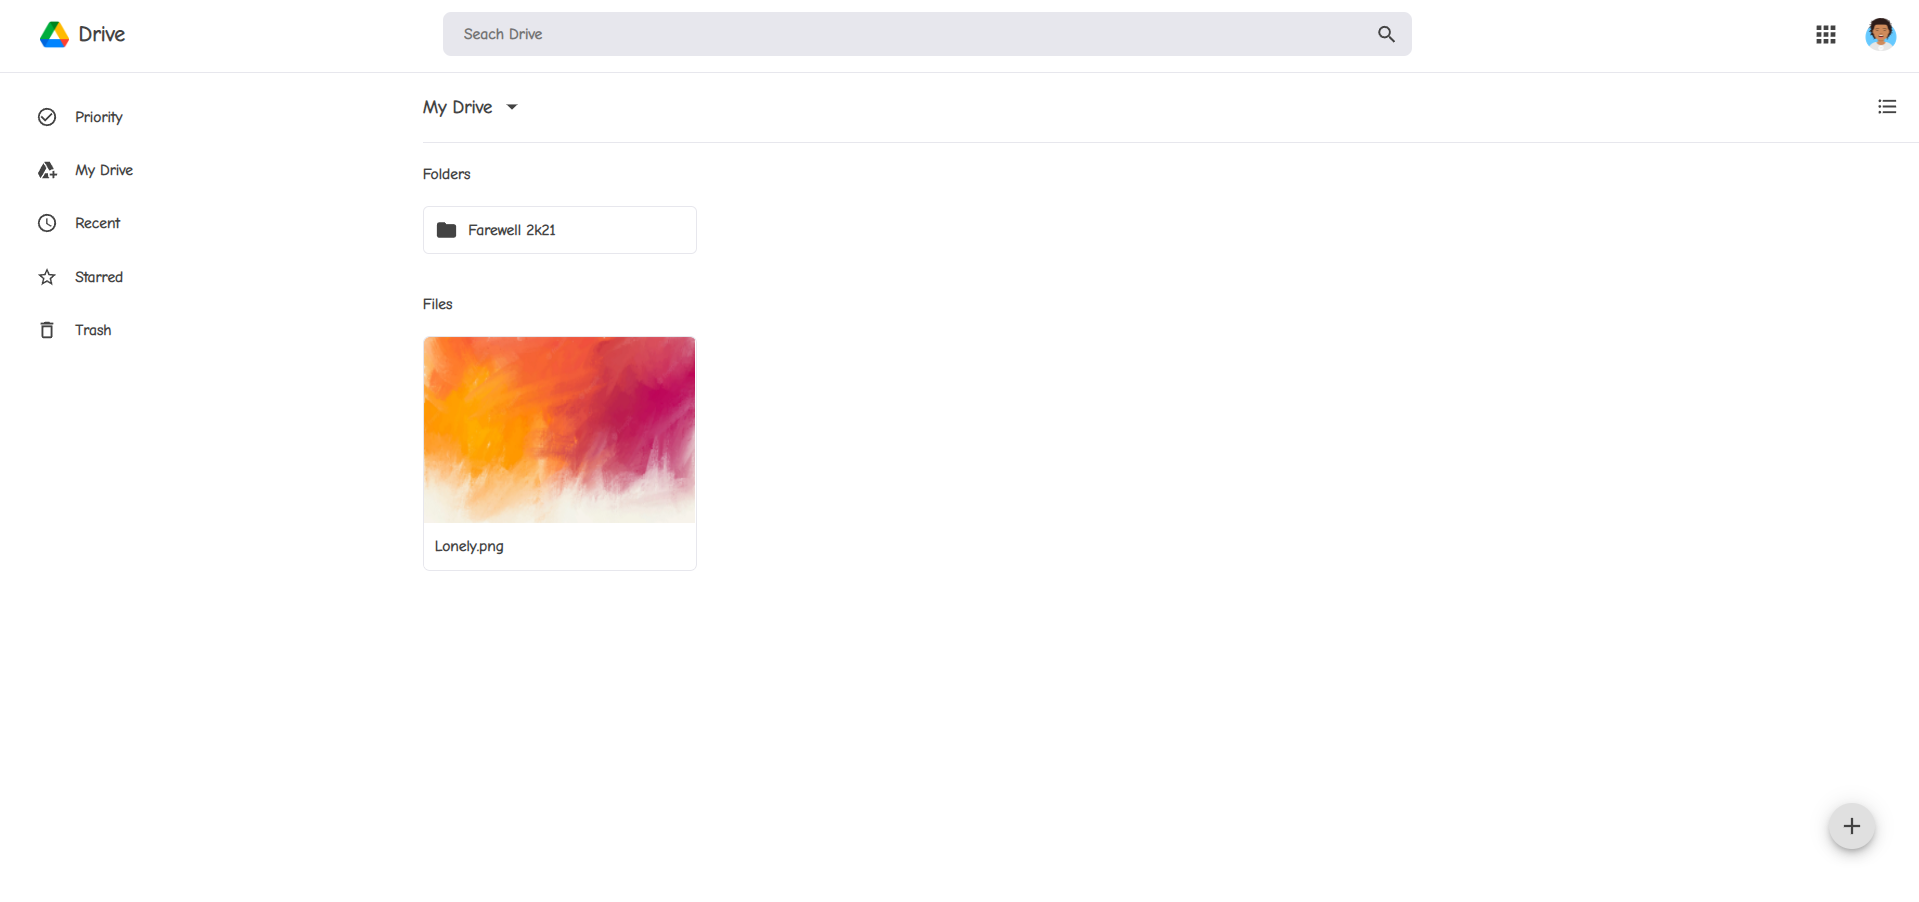
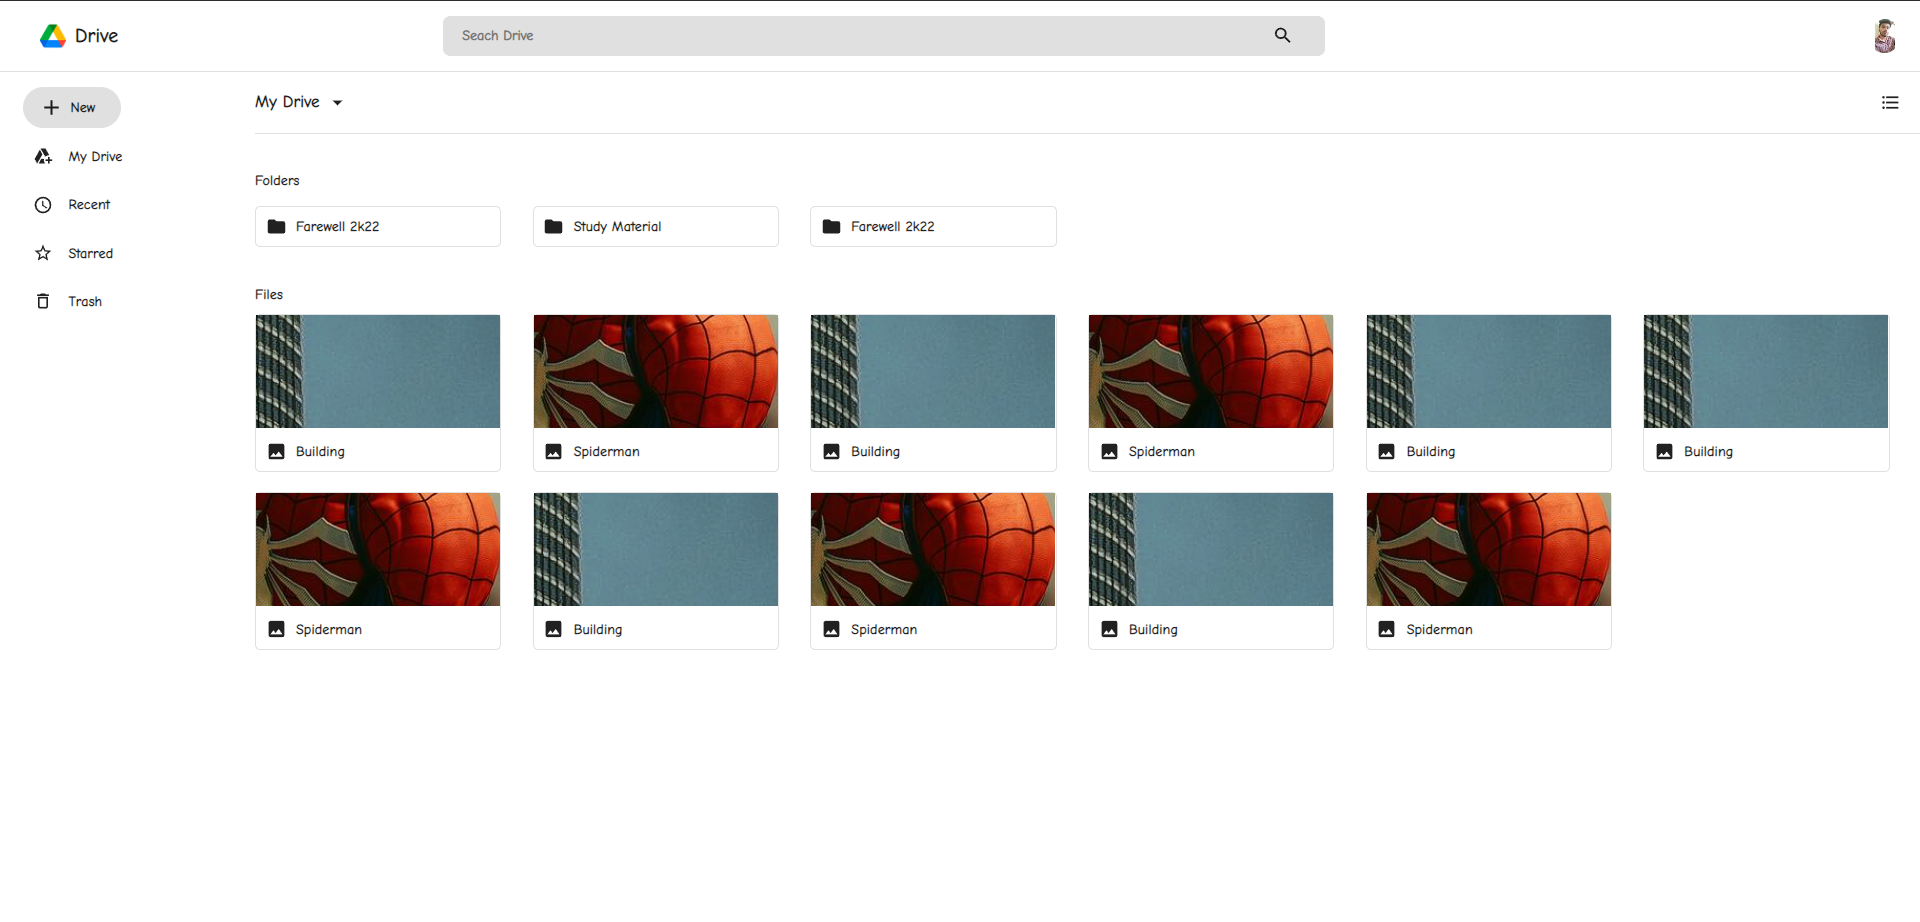
client ui commit

diff --git a/client/src/components/Navbar.js b/client/src/components/Navbar.js
@@ -5,7 +5,9 @@ import Avatar from '@mui/material/Avatar';
 import SearchIcon from '@mui/icons-material/Search';
 import Menu from '@mui/material/Menu';
 import MenuItem from '@mui/material/MenuItem';
-
+import { Box } from '@mui/material';
+import LogoutIcon from '@mui/icons-material/Logout';
+import Brightness4Icon from '@mui/icons-material/Brightness4';
 
 export const Navbar = (props) => {
 
@@ -19,7 +21,7 @@ export const Navbar = (props) => {
     };
 
     return (
-        <div className='navbar' style={{ width: '100%', borderBottom: '1.5px solid #E7E7ED', display: "flex", flexDirection: 'row', alignItems: 'center', height: '72' }}>
+        <Box className='navbar' sx={{ borderBottom: 1 ,borderColor: 'divider'}} style={{ width: '100%',display: "flex", flexDirection: 'row', alignItems: 'center', height: '72' }}>
             <div className="left" style={{ width: '24%', }}>
                 <div className="logo" style={{ display: 'flex', flexDirection: 'row', alignItems: 'center', marginTop: '19px', marginBottom: '19px', cursor: 'pointer' }}>
                     <img style={{ width: '25px', marginLeft: '9%', marginRight: '8.45px' }} src={logo} alt="" />
@@ -27,13 +29,13 @@ export const Navbar = (props) => {
                 </div>
             </div>
             <div className="right" style={{ display: 'flex', flexDirection: 'row', alignItems: 'center', width: '80%' }}>
-                <div className="searchbar" style={{ width: '838px', backgroundColor: '#E7E7ED', display: 'flex', flexDirection: 'row', alignItems: 'center', height: '38px', borderRadius: '7px' }}>
-                    <input placeholder='Seach Drive' type="text" style={{ backgroundColor: 'transparent', border: 'none', outline: 'none', width: '93.8%', height: 'inherit', paddingLeft: '18px' }} />
+                <Box sx={{bgcolor:'divider'}} className="searchbar" style={{ width: '838px',  display: 'flex', flexDirection: 'row', alignItems: 'center', height: '38px', borderRadius: '7px',color:'inherit' }}>
+                    <input placeholder='Seach Drive' type="text" style={{ backgroundColor: 'transparent', border: 'none', outline: 'none', width: '93.8%', height: 'inherit', paddingLeft: '18px',color:'inherit' }} />
                     <SearchIcon style={{ width: '24px', height: '20px', cursor: 'pointer' }}></SearchIcon>
-                </div>
+                </Box>
                 <div className="user_settings" style={{ marginLeft: 'auto', display: 'flex', flexDirection: 'row', alignItems: 'center', marginRight: '11px' }}>
                     {/* <AppsIcon color="primary" style={{ width: '24px', height: '24px', marginLeft: '12px', marginRight: "9px", cursor: 'pointer' }}></AppsIcon> */}
-                    <Avatar src={props.photo} onClick={handleClick} style={{ width: '29px', height: '29px', marginLeft: '12px', marginRight: "9px", cursor: 'pointer' }} />
+                    <Avatar src={props.photo} onClick={handleClick} style={{ width: '29px', height: '32px', marginLeft: '12px', marginRight: "9px", cursor: 'pointer' }} />
                     <Menu
                         disableAutoFocusItem={false}
                         anchorEl={anchorEl}
@@ -70,10 +72,11 @@ export const Navbar = (props) => {
                         transformOrigin={{ horizontal: 'right', vertical: 'top' }}
                         anchorOrigin={{ horizontal: 'right', vertical: 'bottom' }}
                     >
-                        <MenuItem onClick={() => { props.setAuth(null); localStorage.removeItem('authuser') }}>Logout</MenuItem>
+                        <MenuItem sx={{fontFamily:'Comic Neue',fontSize:'13px',fontWeight:'bold'}} onClick={() => { props.setAuth(null); localStorage.removeItem('authuser') }}><LogoutIcon sx={{fontSize:'16px',marginRight:'6px'}}/>Logout</MenuItem>
+                        <MenuItem onClick={()=>props.handleDark()} sx={{fontFamily:'Comic Neue',fontSize:'13px',fontWeight:'bold'}} ><Brightness4Icon sx={{fontSize:'16px',marginRight:'6px'}}/>Toggle Dark</MenuItem>
                     </Menu>
                 </div>
             </div>
-        </div>
+        </Box>
     )
 }

diff --git a/client/src/components/Leftbar.js b/client/src/components/Leftbar.js
@@ -10,20 +10,20 @@ import AddIcon from '@mui/icons-material/Add';
 export const Leftbar = () => {
     return (
         <div className='leftbar' style={{width:'13%'}}>
-            <button style={{width:'45%',display:'flex',flexDirection:'row',justifyContent:'center',alignItems:'center',backgroundColor:'#F0F5FF',outline:'none',border:'none',height:'39px',borderRadius:'32px',marginLeft:'22px',cursor:'pointer',marginBottom:'7px',marginTop:'15px'}}><AddIcon style={{marginRight:'6px',marginLeft:'-9px'}}/>New</button>
-            <Link to="/" className="tags" style={{marginLeft:'22px',display:'flex',flexDirection:'row',alignItems:'center',marginBottom:'7px',marginTop:'7px',textDecoration:'none',height:'39px',paddingLeft:'9px',borderRadius:'7px 25px 25px 7px'}}>
+            <button style={{width:'45%',display:'flex',flexDirection:'row',justifyContent:'center',alignItems:'center',backgroundColor:'rgba(0, 0, 0, 0.12)',outline:'none',border:'none',height:'39px',borderRadius:'32px',marginLeft:'22px',cursor:'pointer',marginBottom:'7px',marginTop:'15px',color:'inherit'}}><AddIcon style={{marginRight:'6px',marginLeft:'-9px'}}/><h4>New</h4></button>
+            <Link to="/" className="tags" style={{marginLeft:'22px',display:'flex',flexDirection:'row',alignItems:'center',marginBottom:'7px',marginTop:'7px',textDecoration:'none',height:'39px',paddingLeft:'9px',borderRadius:'7px 25px 25px 7px',textDecorationColor:'none',color:'inherit'}}>
                 <AddToDriveOutlinedIcon style={{width:'19px',height:'19px',marginRight:'15px'}}/>
                 <h5>My Drive</h5>
             </Link>
-            <Link to="/recent" className="tags" style={{marginLeft:'22px',display:'flex',flexDirection:'row',alignItems:'center',marginBottom:'7px',marginTop:'7px',textDecoration:'none',height:'39px',paddingLeft:'9px',borderRadius:'7px 25px 25px 7px'}}>
+            <Link to="/recent" className="tags" style={{marginLeft:'22px',display:'flex',flexDirection:'row',alignItems:'center',marginBottom:'7px',marginTop:'7px',textDecoration:'none',height:'39px',paddingLeft:'9px',borderRadius:'7px 25px 25px 7px',textDecorationColor:'none',color:'inherit'}}>
                 <AccessTimeOutlinedIcon style={{width:'19px',height:'19px',marginRight:'15px'}}/>
                 <h5>Recent</h5>
             </Link>
-            <Link to="/starred" className="tags" style={{marginLeft:'22px',display:'flex',flexDirection:'row',alignItems:'center',marginBottom:'7px',marginTop:'7px',textDecoration:'none',height:'39px',paddingLeft:'9px',borderRadius:'7px 25px 25px 7px'}}>
+            <Link to="/starred" className="tags" style={{marginLeft:'22px',display:'flex',flexDirection:'row',alignItems:'center',marginBottom:'7px',marginTop:'7px',textDecoration:'none',height:'39px',paddingLeft:'9px',borderRadius:'7px 25px 25px 7px',textDecorationColor:'none',color:'inherit'}}>
                 <StarBorderPurple500OutlinedIcon style={{width:'19px',height:'19px',marginRight:'15px'}}/>
                 <h5>Starred</h5>
             </Link>
-            <Link to="/trash" className="tags" style={{marginLeft:'22px',display:'flex',flexDirection:'row',alignItems:'center',marginBottom:'7px',marginTop:'7px',textDecoration:'none',height:'39px',paddingLeft:'9px',borderRadius:'7px 25px 25px 7px'}}>
+            <Link to="/trash" className="tags" style={{marginLeft:'22px',display:'flex',flexDirection:'row',alignItems:'center',marginBottom:'7px',marginTop:'7px',textDecoration:'none',height:'39px',paddingLeft:'9px',borderRadius:'7px 25px 25px 7px',textDecorationColor:'none',color:'inherit'}}>
                 <DeleteOutlinedIcon style={{width:'19px',height:'19px',marginRight:'15px'}}/>
                 <h5>Trash</h5>
             </Link>

diff --git a/client/src/pages/Home.js b/client/src/pages/Home.js
@@ -1,6 +1,7 @@
 import React from 'react'
+import { Cardc } from '../components/Cardc'
 // import { Card } from '../components/Card'
-// import { Folder } from '../components/Folder'
+import { Folderc } from '../components/Folderc'
 import { Selection } from '../components/Selection'
 
 export const Home = (props) => {
@@ -10,13 +11,30 @@ export const Home = (props) => {
     <div className="home" style={{ width: '100%', marginLeft: '2vw' }}>
       <Selection />
       <div className="files">
-        <h5 style={{ marginBottom: '5px', marginTop: '35px' }}>Files</h5>
-        <div style={{ display: 'flex', flexDirection: 'row', marginBottom: '15px', marginTop: '0px', flexWrap: 'wrap' }}>
-          
-             {/* return( <Card  />) */}
-
+        <h5 style={{ marginBottom: '5px', marginTop: '35px' }}>Folders</h5>
+        <div style={{ display: 'grid', gridTemplateColumns:'repeat( 12, minmax(250px, 1fr) );', marginBottom: '15px', marginTop: '9px' }}>
+          <Folderc name="Farewell 2k22"/>
+          <Folderc name="Study Material"/>
+          <Folderc name="Farewell 2k22"/>
         </div>
       </div>
+      <div className="files">
+        <h5 style={{ marginBottom: '5px', marginTop: '35px' }}>Files</h5>
+        <div style={{ display: 'grid', gridTemplateColumns:'repeat( 6, minmax(250px, 1fr) );', marginBottom: '15px', marginTop: '-15px' }}>
+          <Cardc name="Building" img="https://images.hdqwalls.com/wallpapers/spiderman-in-dubai-si.jpg"/>
+          <Cardc name="Spiderman" img="https://images.hdqwalls.com/download/spiderman-ps4-new-6c-1400x900.jpg"/>
+          <Cardc name="Building" img="https://images.hdqwalls.com/wallpapers/spiderman-in-dubai-si.jpg"/>
+          <Cardc name="Spiderman" img="https://images.hdqwalls.com/download/spiderman-ps4-new-6c-1400x900.jpg"/>
+          <Cardc name="Building" img="https://images.hdqwalls.com/wallpapers/spiderman-in-dubai-si.jpg"/>
+          <Cardc name="Building" img="https://images.hdqwalls.com/wallpapers/spiderman-in-dubai-si.jpg"/>
+          <Cardc name="Spiderman" img="https://images.hdqwalls.com/download/spiderman-ps4-new-6c-1400x900.jpg"/>
+          <Cardc name="Building" img="https://images.hdqwalls.com/wallpapers/spiderman-in-dubai-si.jpg"/>
+          <Cardc name="Spiderman" img="https://images.hdqwalls.com/download/spiderman-ps4-new-6c-1400x900.jpg"/>
+          <Cardc name="Building" img="https://images.hdqwalls.com/wallpapers/spiderman-in-dubai-si.jpg"/>
+          <Cardc name="Spiderman" img="https://images.hdqwalls.com/download/spiderman-ps4-new-6c-1400x900.jpg"/>
+        </div>
+      </div>
+      
     </div>
   )
 }

diff --git a/client/src/App.js b/client/src/App.js
@@ -2,43 +2,58 @@ import { Home } from "./pages/Home";
 import { Leftbar } from "./components/Leftbar";
 import { Navbar } from "./components/Navbar";
 import { useEffect, useState } from "react";
-import { Login } from "./components/Login";
+import { Login } from "./pages/Login";
 import {
   BrowserRouter,
   Routes,
   Route,
 } from "react-router-dom";
-
+import { ThemeProvider, createTheme } from '@mui/material/styles';
+import CssBaseline from '@mui/material/CssBaseline';
 
 function App() {
+  const [dark, setDark] = useState(false)
+  const darkTheme = createTheme({
+    palette: {
+      mode: dark ? 'dark' : 'light',
+    },
+  });
+
   const [auth, setAuth] = useState(null)
   useEffect(() => {
     if (localStorage.getItem('authuser') !== null || localStorage.getItem('authuser') !== undefined) {
       setAuth(JSON.parse(localStorage.getItem('authuser')))
     }
+    if (!localStorage.getItem('dark')) return
+    localStorage.getItem('dark') === 'true' ? setDark(true) : setDark(false)
   }, [])
+
+  function handleDark() {
+    setDark(prevState => {
+      return !prevState
+    })
+    localStorage.setItem('dark', `${!dark}`)
+  }
 
   return (
     <BrowserRouter>
-      <Routes>
-        <Route path="/" element={<div className="App">
-          {
-            (auth) ?
-              (<><Navbar photo={auth.photoURL} setAuth={setAuth} />
-                <div className="app" style={{ display: 'flex', flexDirection: 'row' }}>
-                  <Leftbar />
-                  <Home auth={auth} />
-                </div></>) : <Login setAuth={setAuth} />
-          }
-        </div>} />
-        <Route path="/*" element={<>{(auth) ? <><Navbar photo={auth.photoURL} setAuth={setAuth} />
-          <div className="app" style={{ display: 'flex', flexDirection: 'row' }}>
-            <Leftbar />
-          </div></> : <Login setAuth={setAuth} />}</>} />
-
-        
-      </Routes>
-
+      <ThemeProvider theme={darkTheme}>
+        <CssBaseline>
+          <Routes>
+            <Route path="/*" element={<div className="App">
+              {
+                (auth) ?
+                  (<><Navbar photo={auth.photoURL} setAuth={setAuth} handleDark={handleDark} />
+                    <div className="app" style={{ display: 'flex', flexDirection: 'row' }}>
+                      <Leftbar />
+                      <Home auth={auth} />
+                    </div></>) : <Login setAuth={setAuth} />
+              }
+            </div>
+            } />
+          </Routes>
+        </CssBaseline>
+      </ThemeProvider>
     </BrowserRouter>
   );
 }

diff --git a/client/src/pages/Login.js b/client/src/pages/Login.js
@@ -1,9 +1,10 @@
-import { Button } from '@mui/material'
+import { Box, Button } from '@mui/material'
 import React from 'react'
-import { UnloggedNav } from './UnloggedNav'
+import { UnloggedNav } from '../components/UnloggedNav'
 import { getAuth, signInWithPopup } from "firebase/auth";
 import { provider } from '../config'
 import toast, { Toaster } from 'react-hot-toast';
+import drive from '../assets/drive.svg'
 
 export const Login = (props) => {
     const auth = getAuth();
@@ -20,7 +21,7 @@ export const Login = (props) => {
         <div className='login'>
             <Toaster />
             <UnloggedNav />
-            <div className="page" style={{ display: 'flex', flexDirection: 'row' }}>
+            <Box className="page" style={{ display: 'flex', flexDirection: 'row' }}>
                 <div className="left" style={{ width: '50%', display: 'flex', flexDirection: 'column', alignItems: 'center', justifyContent: 'center' }}>
                     <div className="somebigtext" style={{ width: '60%' }}>
                         <h1 style={{ marginBottom: '16px' }}> Easy and secure access to all of your content</h1>
@@ -29,9 +30,9 @@ export const Login = (props) => {
                     </div>
                 </div>
                 <div className="right" style={{ width: '50%' }}>
-                    <img style={{ width: '85%', marginTop: "6vh" }} src="https://lh3.googleusercontent.com/vq6ZjR72IcEKRh3QtkVrf2BXsZIOgljo8yGevO2rSVtl3mSxSDKvWfFAGxMxCYbPLGiovGk-gk0kA2csKSPHQKog-zTmNjRtmh6VkA=s0" alt="" />
+                    <img style={{ width: '85%', }} src={drive} alt="" />
                 </div>
-            </div>
+            </Box>
         </div>
     )
 }

diff --git a/client/src/components/Selection.js b/client/src/components/Selection.js
@@ -1,8 +1,9 @@
 import React from 'react'
 import ArrowDropDownIcon from '@mui/icons-material/ArrowDropDown';
 import FormatListBulletedIcon from '@mui/icons-material/FormatListBulleted';
+import { Box } from '@mui/material';
 export const Selection = () => {
   return (
-    <div className='selection' style={{backgroundColor:'white',width:"100%",height:'59px',display:'flex',flexDirection:'row',alignItems:'center',borderBottom:'1.5px solid #E7E7ED',marginBottom:'19px'}}>My Drive <ArrowDropDownIcon style={{width:'22px',height:'22px',marginLeft:'6px'}} /> <FormatListBulletedIcon style={{marginLeft:'auto',marginRight:'19px',width:'20px',height:'22px',cursor:'pointer'}} /></div>
+    <Box className='selection' sx={{ borderBottom: 0.5 ,borderColor: 'divider'}}  style={{ width: "100%", height: '59px', display: 'flex', flexDirection: 'row', alignItems: 'center',marginBottom: '19px' }}>My Drive <ArrowDropDownIcon style={{ width: '22px', height: '22px', marginLeft: '6px' }} /> <FormatListBulletedIcon style={{ marginLeft: 'auto', marginRight: '19px', width: '20px', height: '22px', cursor: 'pointer' }} /></Box>
   )
 }

diff --git a/client/src/components/Cardc.js b/client/src/components/Cardc.js
@@ -1,0 +1,16 @@
+import React from 'react'
+import ImageIcon from '@mui/icons-material/Image';
+import { Box } from '@mui/system';
+
+export const Cardc = (props) => {
+  return (
+    <Box className='card' sx={{ border: 1 ,borderColor: 'divider'}} style={{ width: '234px', height: '150px', borderRadius: '5px', display: 'flex', flexDirection: 'column' ,marginRight:'13px',marginTop:'19px'}}>
+      <div href={props.url} className='card' style={{ position: 'relative', background: `url(${props.url})`, overflow: 'hidden', height: '75%', width: '100%',display:'flex',justifyContent:'center',alignItems:'center' }}>
+        <img src={props.img} alt="" />
+      </div>
+      <div className='folder' style={{ display: 'flex', flexDirection: 'row', alignItems: 'center', width: '234px', height: '39px', marginRight: '13px', marginTop: '3px' }}>
+        <ImageIcon style={{ width: '20px', marginLeft: '9px' }} /> <h5 style={{ marginLeft: '9px', color: 'inherit' }}>{props.name}</h5>
+      </div>
+    </Box>
+  )
+}

diff --git a/client/src/components/Folderc.js b/client/src/components/Folderc.js
@@ -1,0 +1,10 @@
+import React from 'react'
+import FolderIcon from '@mui/icons-material/Folder';
+import { Box } from '@mui/material';
+export const Folderc = ({name}) => {
+  return (
+    <Box sx={{ border: 1 ,borderColor: 'divider'}}  className='folder' style={{ display: 'flex', flexDirection: 'row', alignItems: 'center', width: '234px', height: '39px',borderRadius: '5px', marginRight: '13px', marginTop: '5px' }}>
+      <FolderIcon style={{ width: '20px', marginLeft: '9px' }} /> <h5 style={{ marginLeft: '9px',color:'inherit' }}>{name}</h5>
+    </Box>
+  )
+}

diff --git a/client/src/index.css b/client/src/index.css
@@ -3,7 +3,6 @@
   padding: 0;
   font-family: 'Comic Neue', cursive;
   font-weight: bold;
-  color: rgb(67, 67, 67);
 }
 
 *::-webkit-scrollbar-track {

diff --git a/client/src/css/leftbar.css b/client/src/css/leftbar.css
@@ -1,3 +1,4 @@
 .tags:hover{
-    background-color: #F0F5FF;
+    background-color: rgba(0, 0, 0, 0.12);
+    color:#dddddd
 }

diff --git a/README.md b/README.md
@@ -1,0 +1,7 @@
+### Google Drive Clone
+
+#### overview :
+<img src="./images/1.png" />
+<img src="./images/2.png" />
+<img src="./images/4.png" />
+<img src="./images/3.png" />
